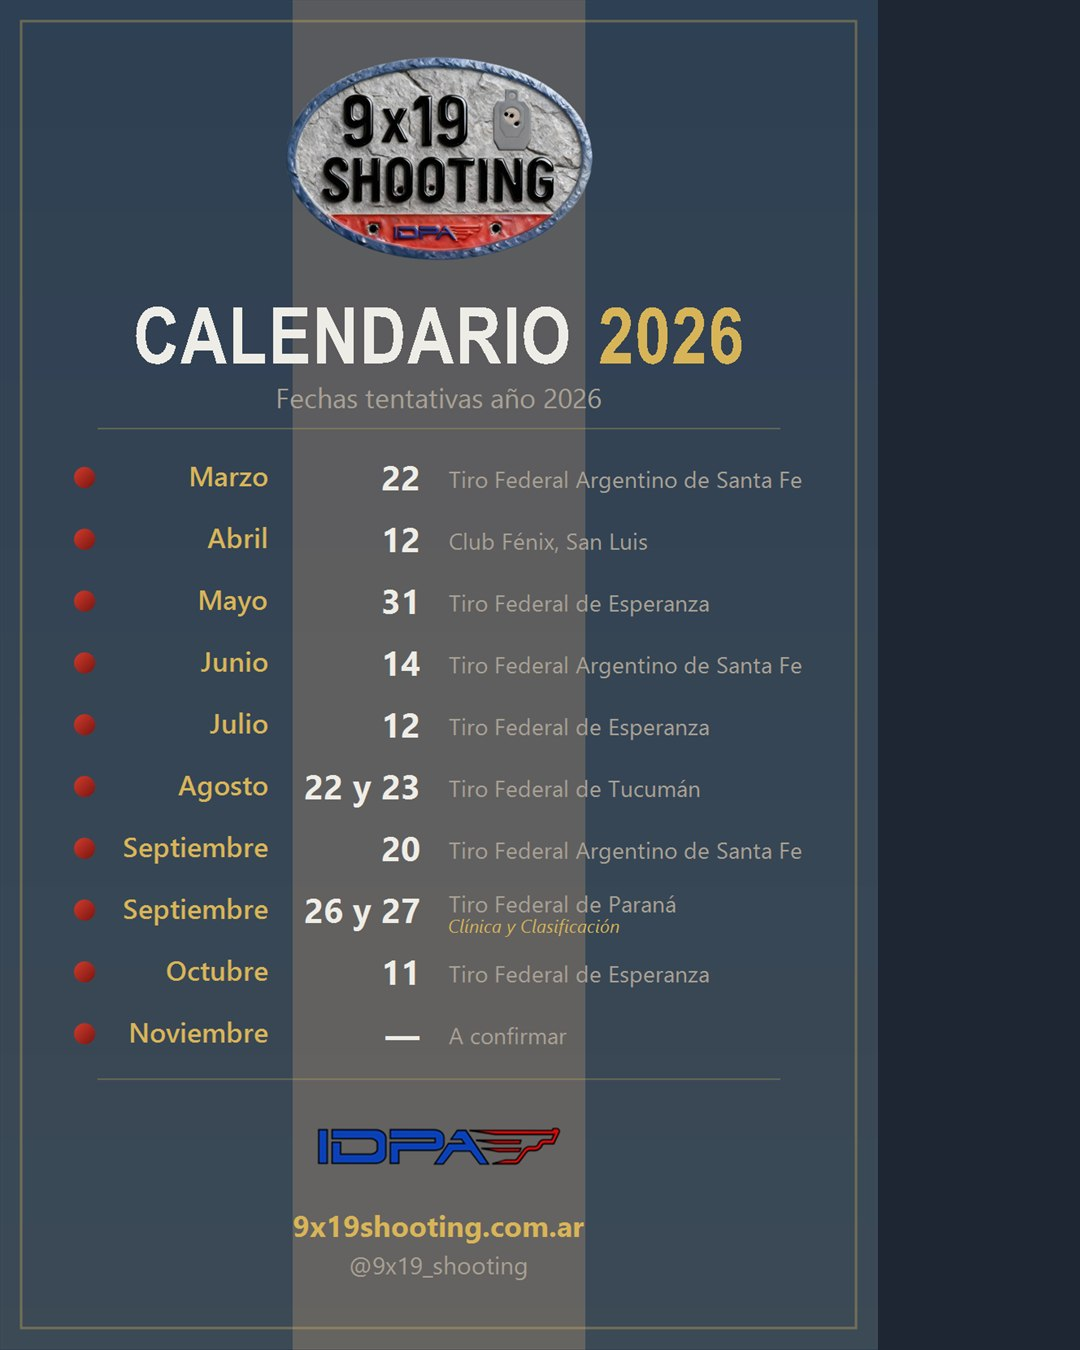
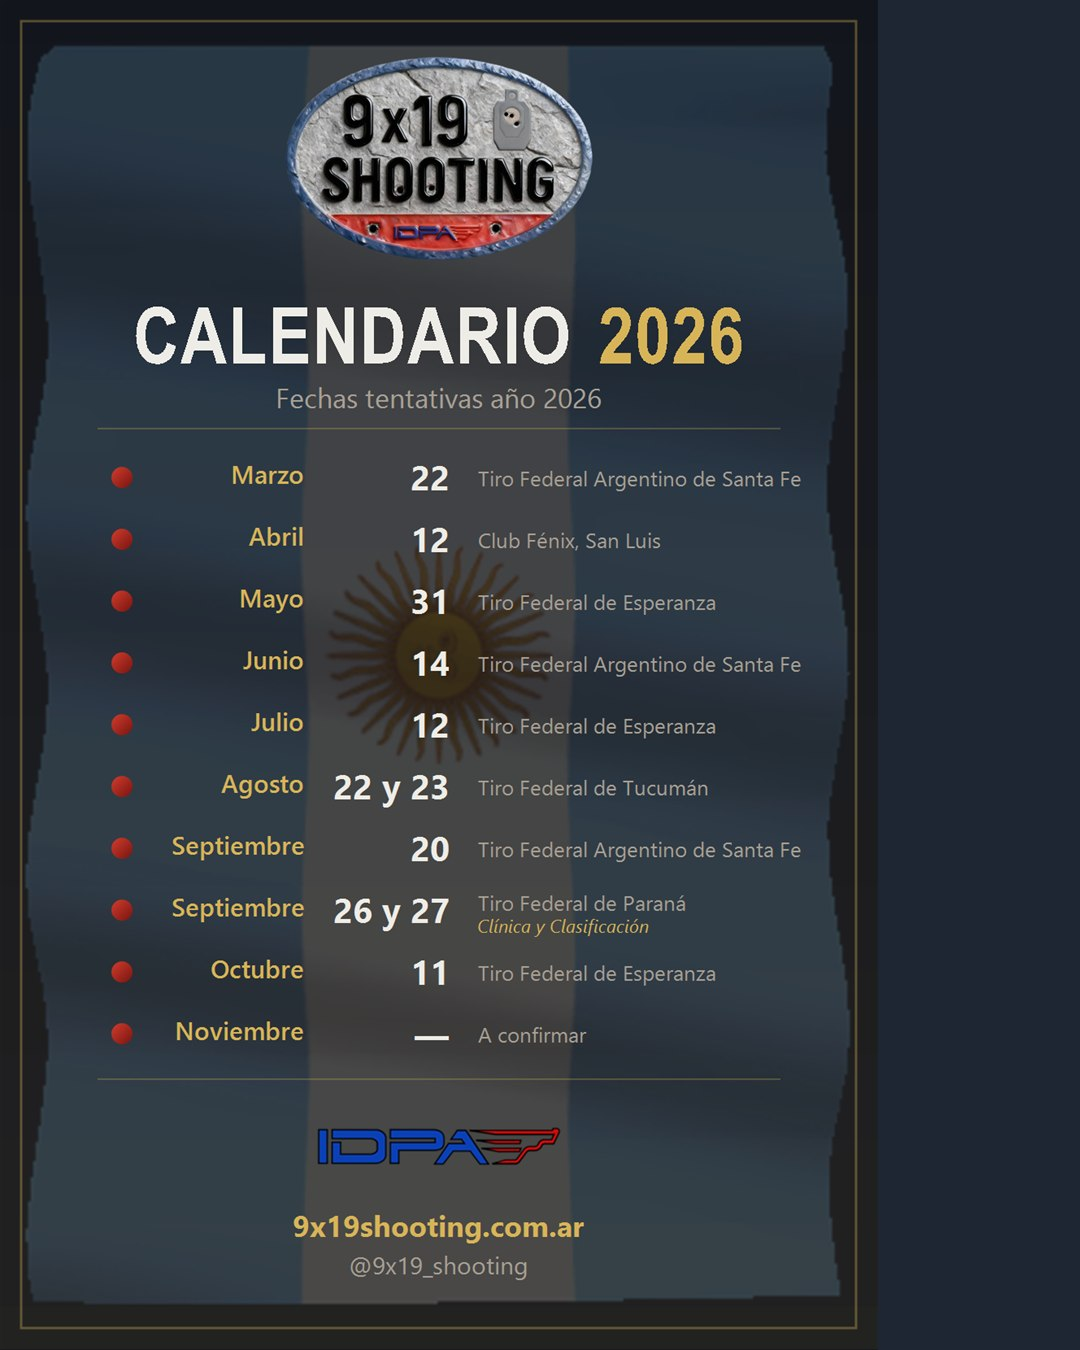
El calendario, con la bandera flameando de fondo
Un fotograma del gif de la bandera, girado un cuarto de vuelta para que
las franjas queden verticales y estirado a todo el flyer, con un velo
oscuro encima para que el texto se lea.

Se va la bandera dibujada a mano, que era un apaño hasta tener una de
verdad. El gif queda en originales/.

diff --git a/index.html b/index.html
@@ -65,9 +65,9 @@
         </svg>
       </a>
 
-      <a class="aparte" href="assets/calendario-2026-web.jpg?v=4"
-         data-imagen="assets/calendario-2026-web.jpg?v=4"
-         data-imagen-grande="assets/calendario-2026.jpg?v=4"
+      <a class="aparte" href="assets/calendario-2026-web.jpg?v=5"
+         data-imagen="assets/calendario-2026-web.jpg?v=5"
+         data-imagen-grande="assets/calendario-2026.jpg?v=5"
          data-texto-imagen="Calendario 2026 del Club 9x19 Shooting: fechas tentativas de la Región Santa Fe y la Región Cuyo">
         <span aria-hidden="true">📅</span> Calendario 2026
       </a>
